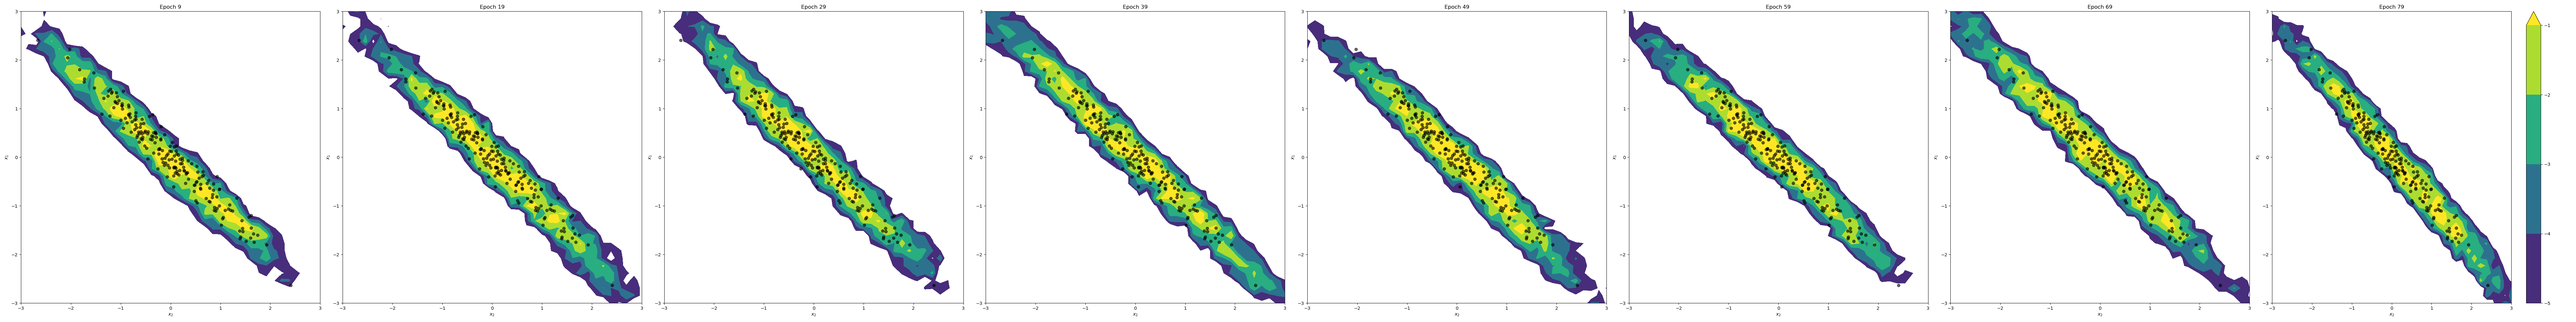
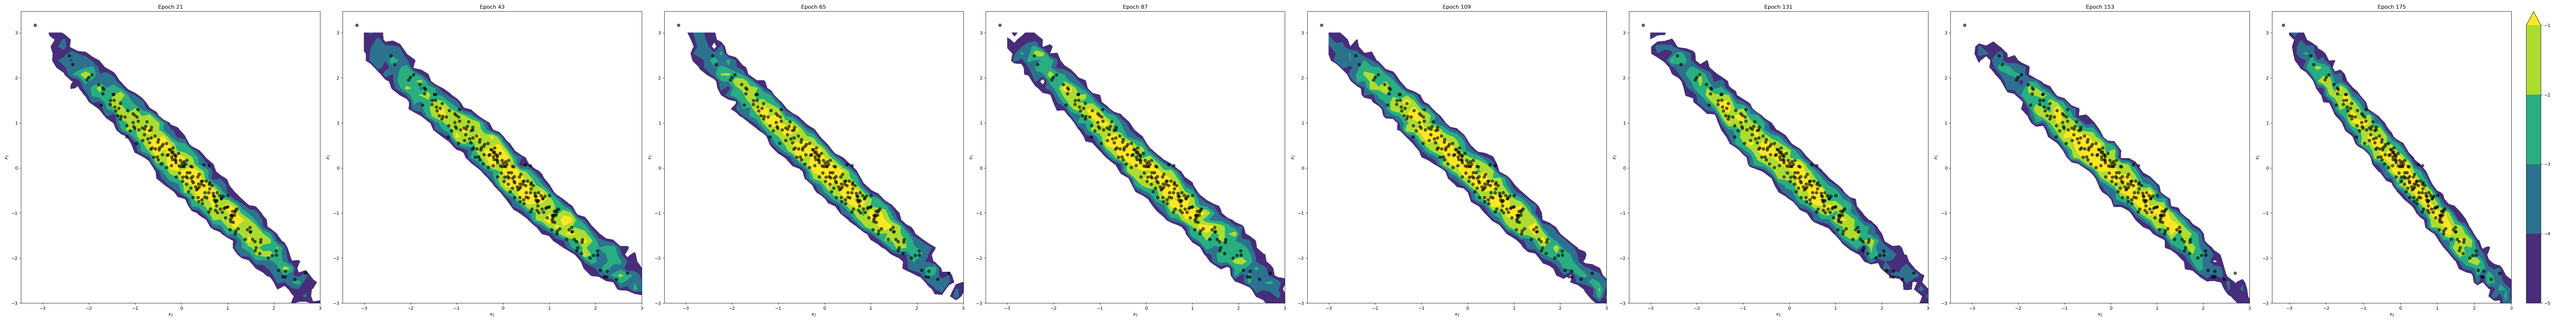
Add detail on 2d experiments.

diff --git a/readme.md b/readme.md
@@ -70,6 +70,7 @@ To empirically set these hyper-parameters, run the diffusion model once with the
 default values, and then use tensorboard to look at the MSE plot. 
 
 ![mse](./assets/mse_example.png)
+
 Ideally, you'd set the location, logsnr_loc to be the 50 percent quantile, 
 and the scale to be the distance from the 50 percent quantile to the 25th or 75th percent quantile.
 (Note the maximum value for MSE should be d, so you should divide by d to interpret these as quantiles.)
@@ -80,11 +81,14 @@ diagnose training, as we should always do at least as well as the Gaussian MMSE.
 
 ## Results
 
+We visualize the density as contour plots using
+$\log p(x) = c + 1/2 \int mmse(x,\alpha) d\alpha$, as discussed in the paper. 
+Samples of each distribution are also plotted for reference. 
 
 ### Gaussian 
 The strongly correlated Gaussian is a nice test case. We know the true entropy  (1.22 nats) and can check 
 that our validation loss approaches this number. 
-![scgloss](./assets/scg-loss.png)
+![scgloss](./assets/scg_val_loss.png)
 
 ![scg](./assets/scg-contours.png)
 
